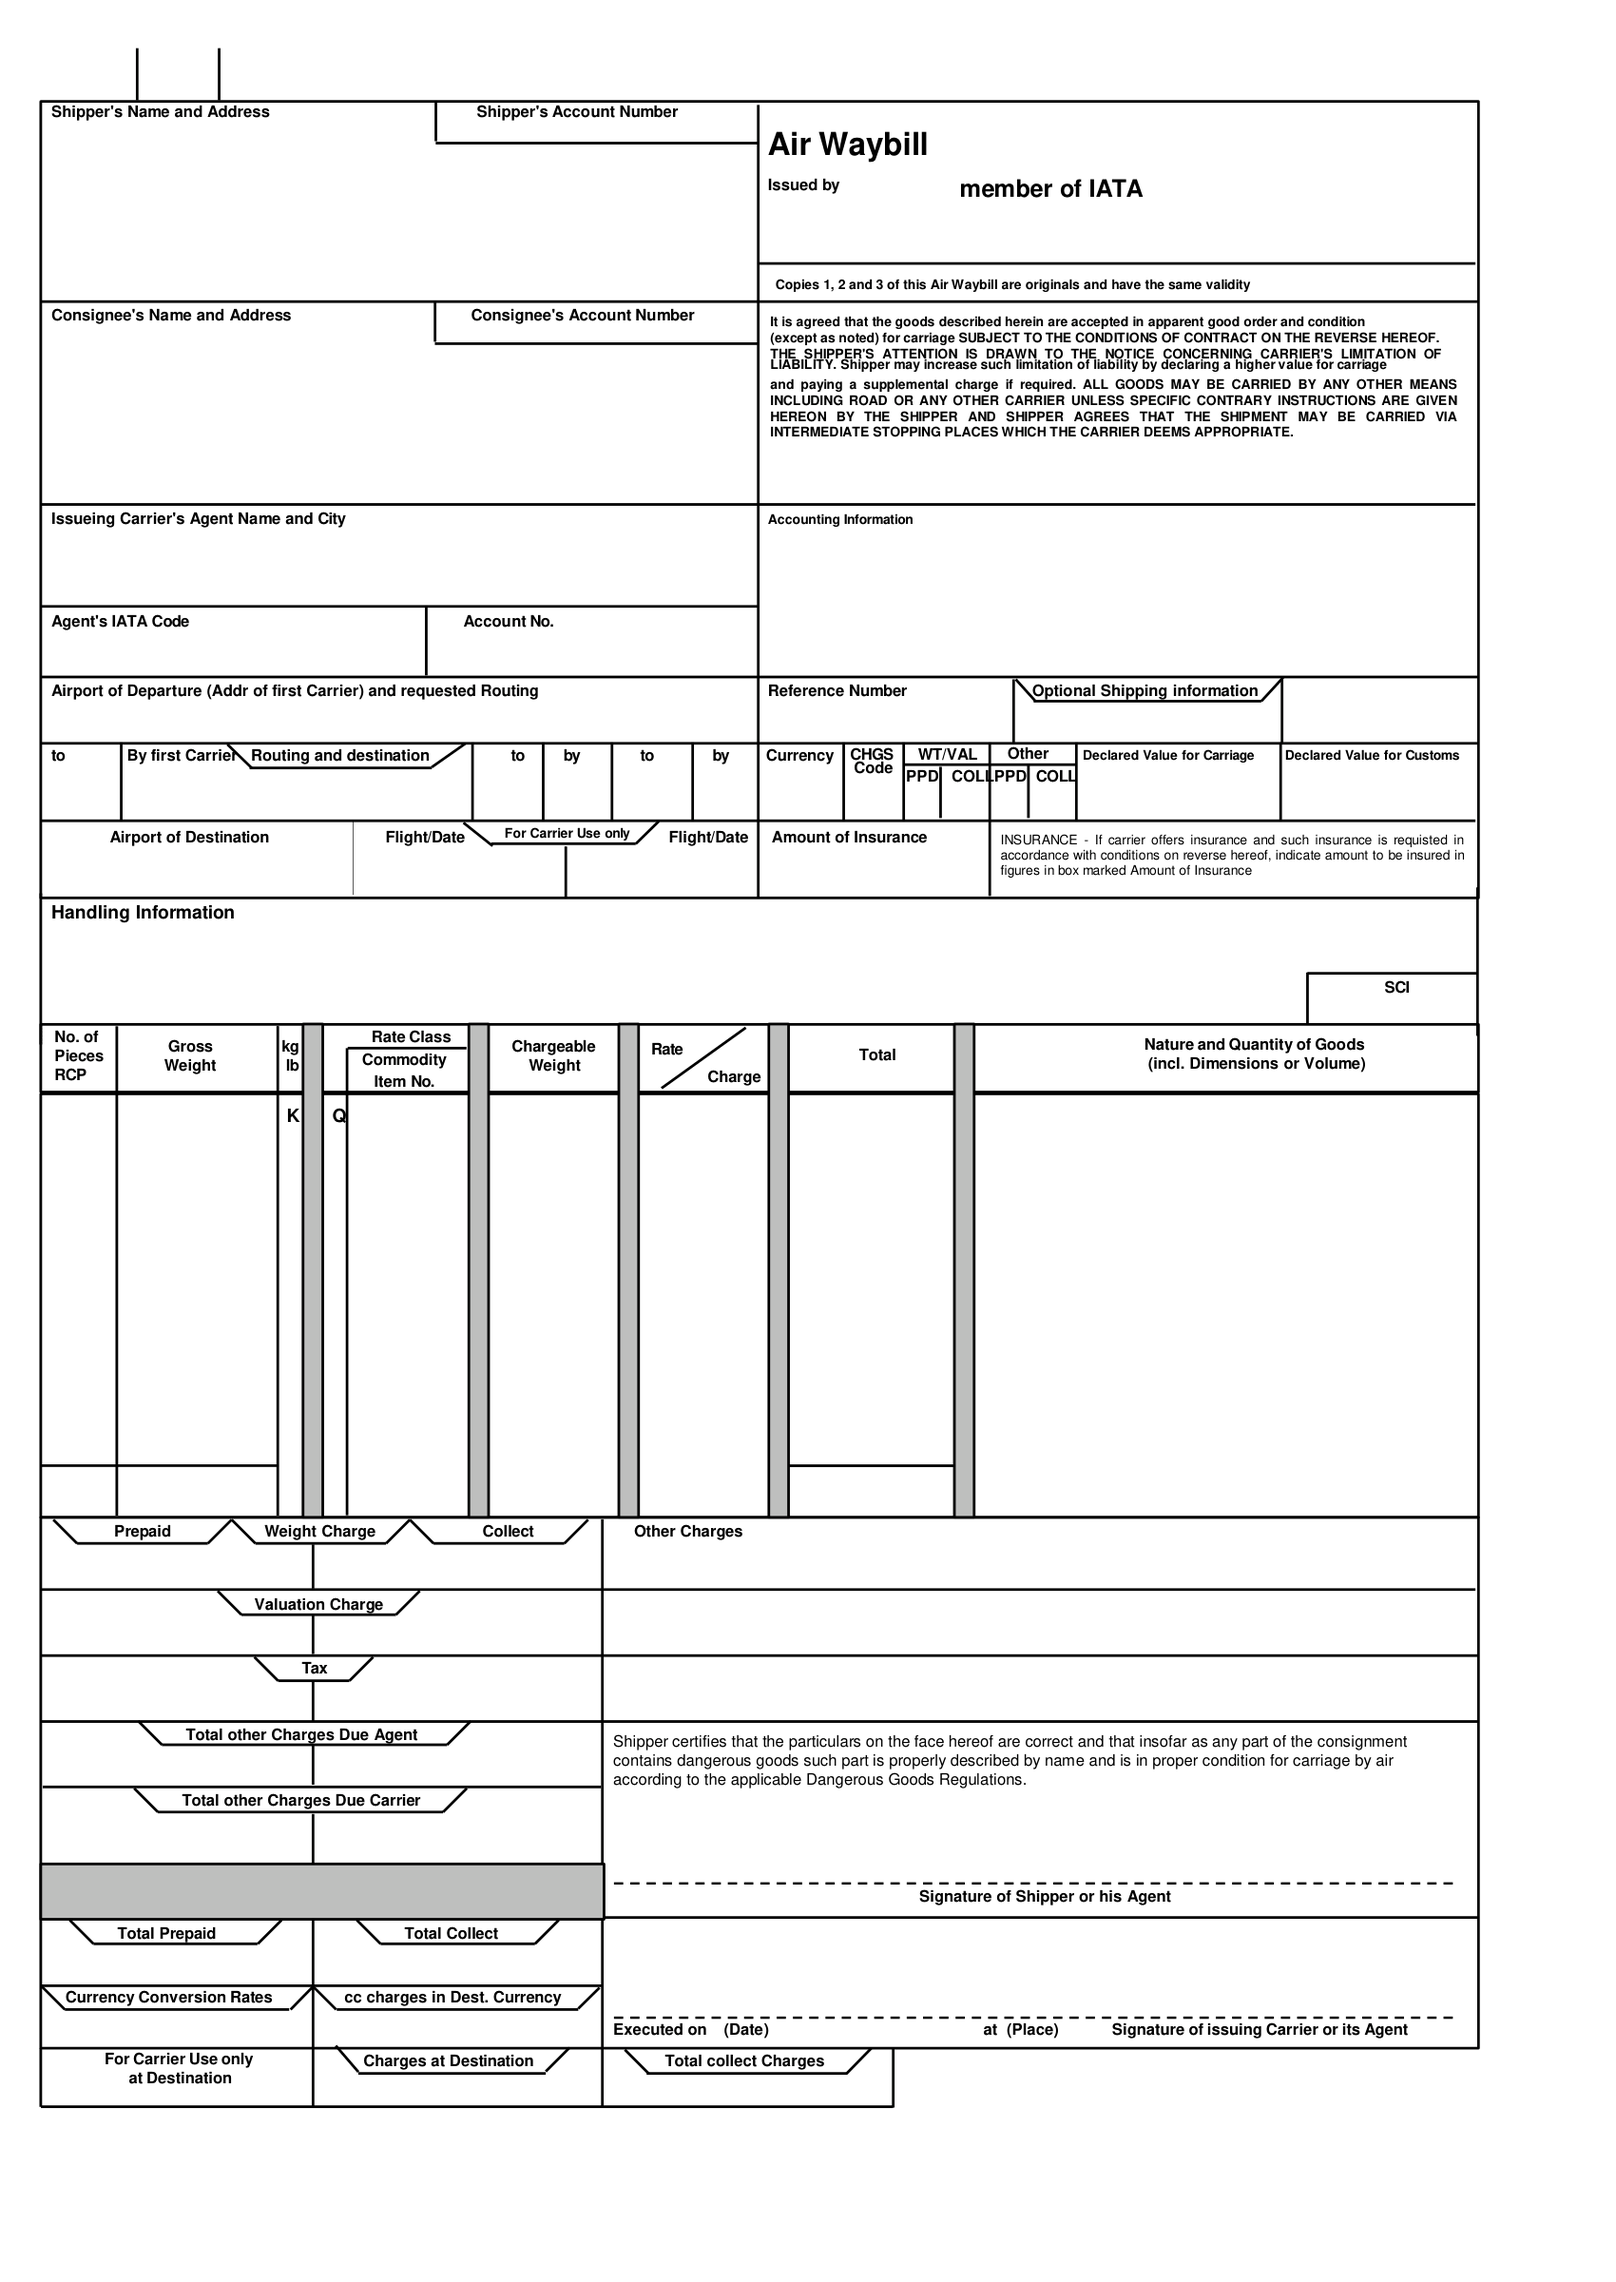
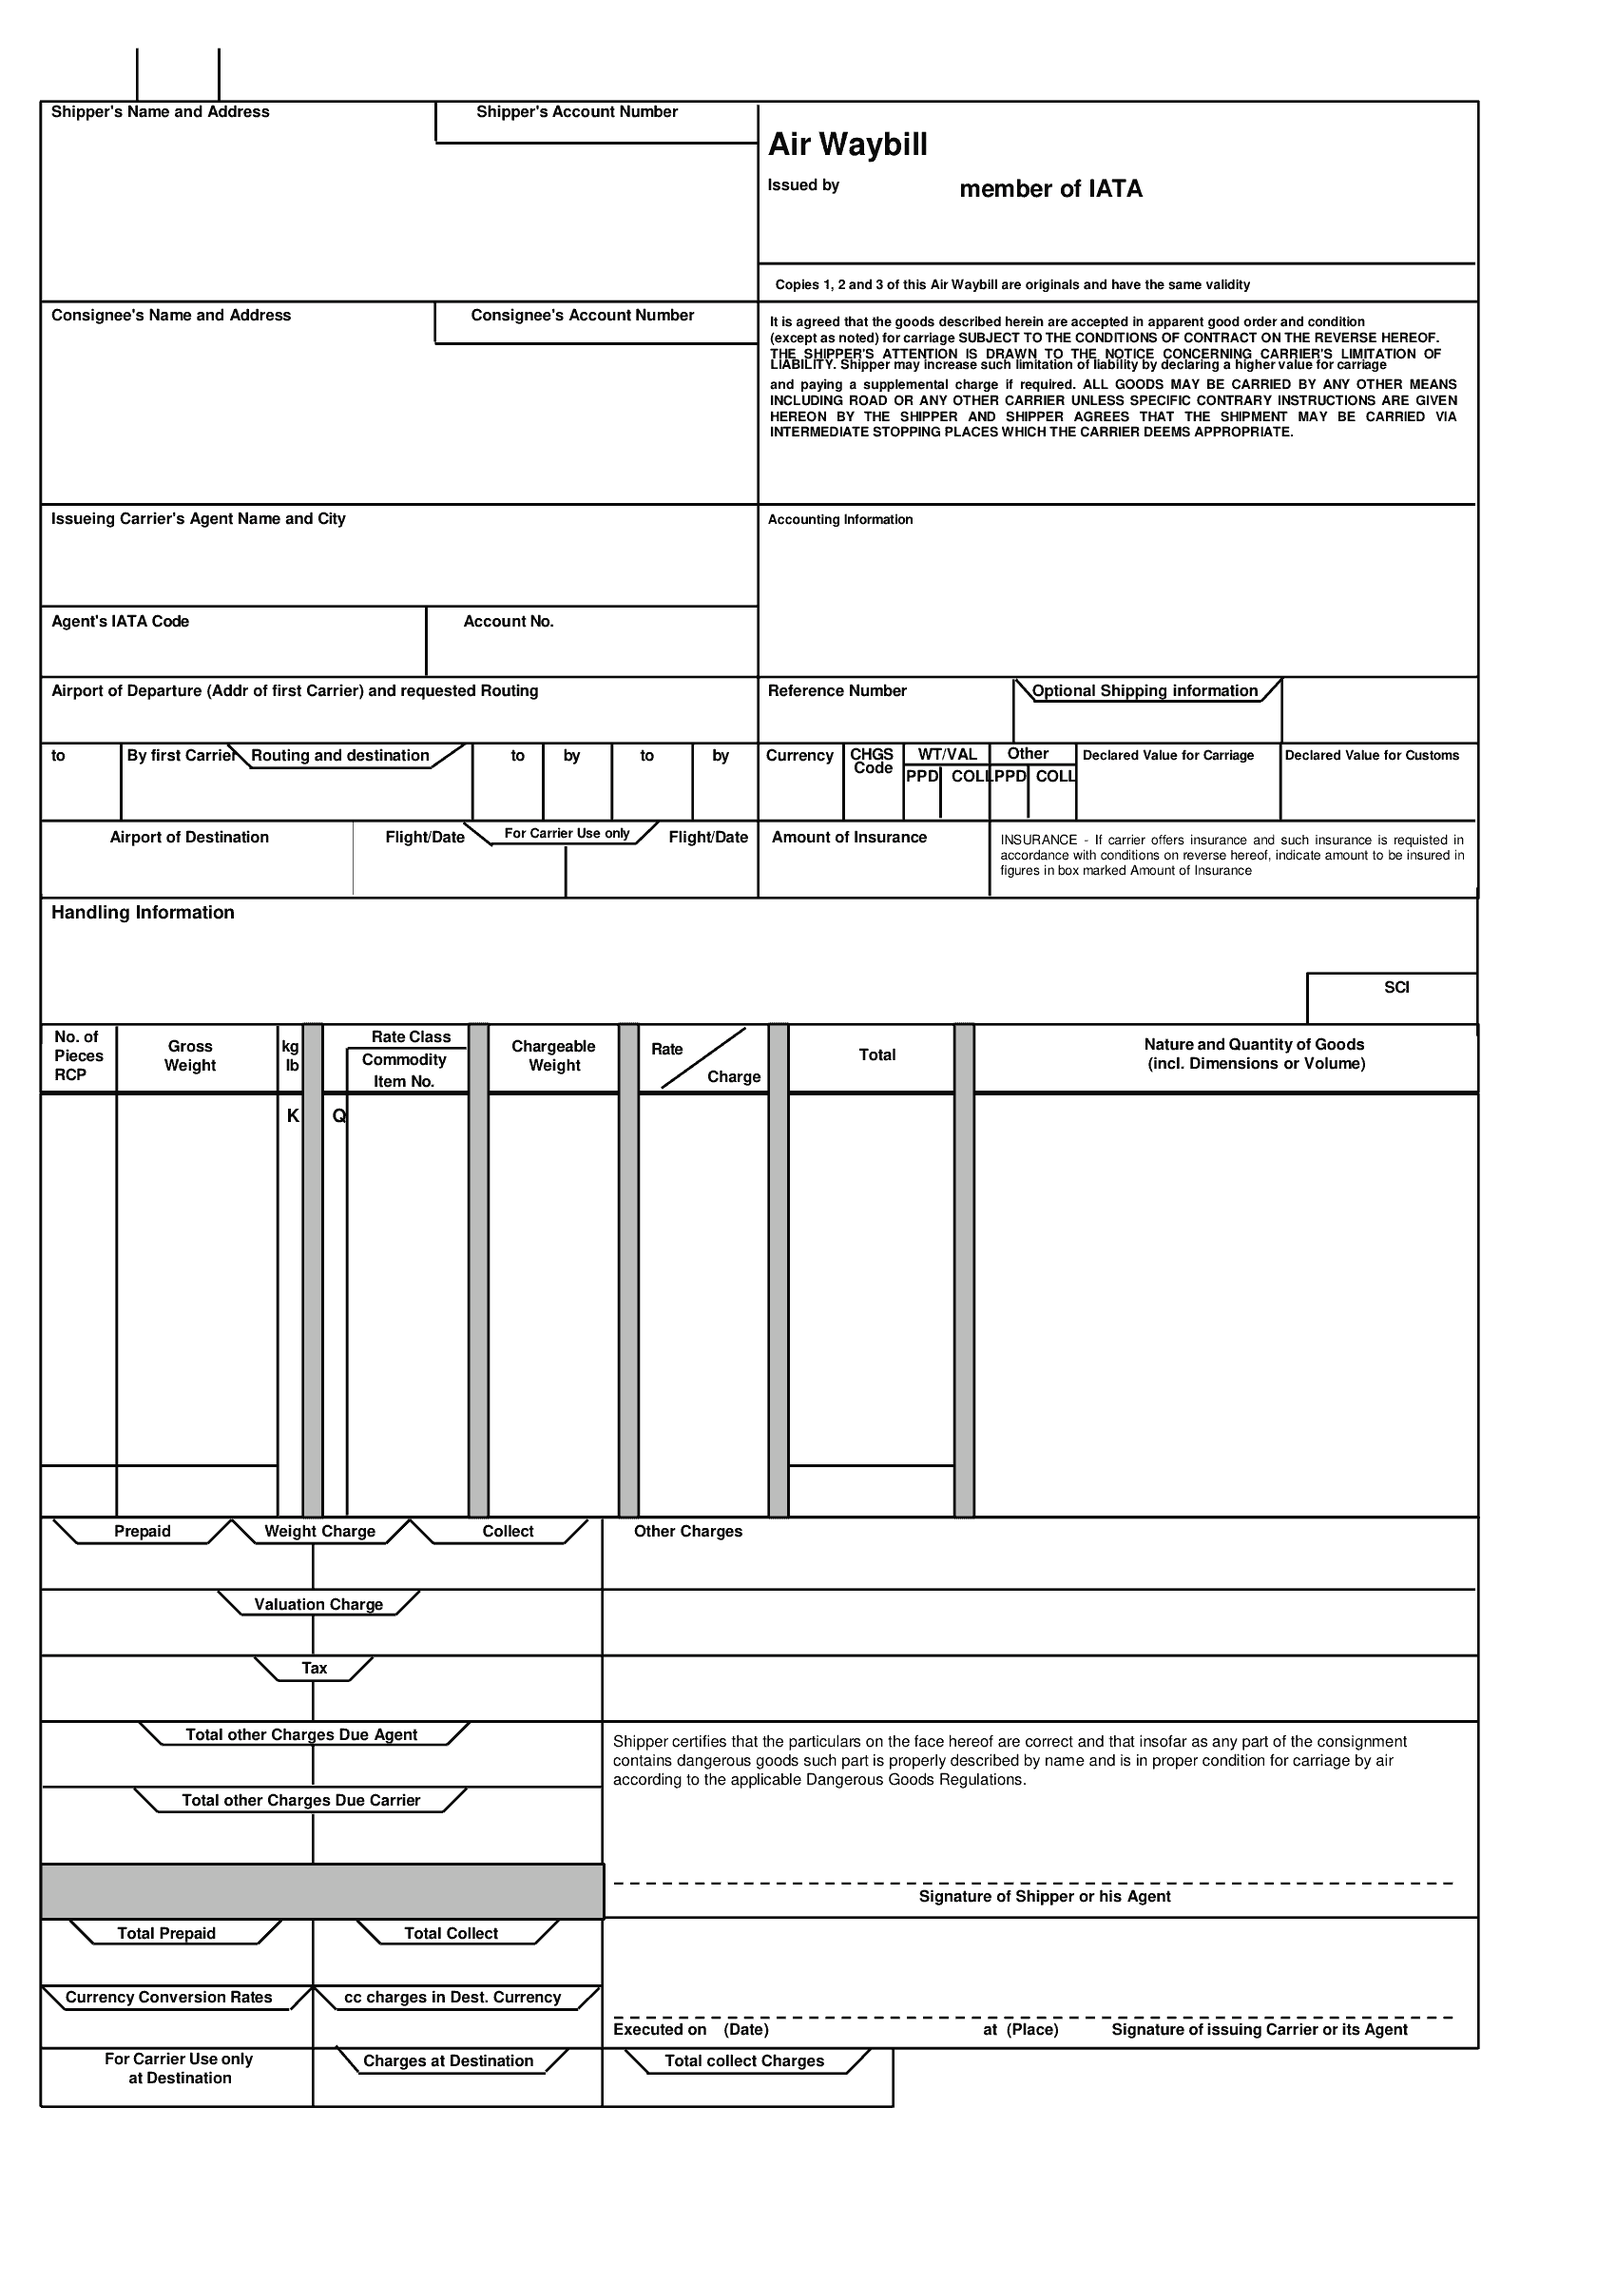
mawb Print

diff --git a/src/app/modules/operation/Master-air-waybill/report/mawb/mawb.component.ts b/src/app/modules/operation/Master-air-waybill/report/mawb/mawb.component.ts
@@ -1573,20 +1573,30 @@ getOtherPrepaidTotal(): number {
     return this.pdfDepsPromise;
   }
 
+  // Embed the MAWB template as its original bytes. Fetching the asset and reading it
+  // via readAsDataURL preserves the source PNG exactly (an ~100 KB 8-bit indexed PNG).
+  // The previous canvas.toDataURL() re-encoded it into a much larger 32-bit truecolor
+  // PNG, inflating every embedded PDF page for no quality gain.
   private preloadMawbImage(): void {
-    const img = new Image();
-    img.crossOrigin = 'anonymous';
-    img.onload = () => {
-      const canvas = document.createElement('canvas');
-      canvas.width = img.naturalWidth;
-      canvas.height = img.naturalHeight;
-      const ctx = canvas.getContext('2d');
-      if (ctx) {
-        ctx.drawImage(img, 0, 0);
-        this.mawbImageBase64 = canvas.toDataURL('image/png');
-      }
-    };
-    img.src = 'assets/images/MAWB.png';
+    fetch('assets/images/MAWB.png')
+      .then((response) => {
+        if (!response.ok) {
+          throw new Error(`Failed to load MAWB.png: ${response.status}`);
+        }
+        return response.blob();
+      })
+      .then((blob) => new Promise<string>((resolve, reject) => {
+        const reader = new FileReader();
+        reader.onload = () => resolve(reader.result as string);
+        reader.onerror = () => reject(reader.error);
+        reader.readAsDataURL(blob);
+      }))
+      .then((dataUrl) => {
+        this.mawbImageBase64 = dataUrl;
+      })
+      .catch((error) => {
+        console.error('MAWB background preload failed:', error);
+      });
   }
 
   private buildMawbPdfContent(house?: any): any[] {
